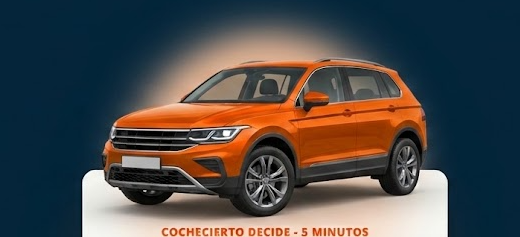
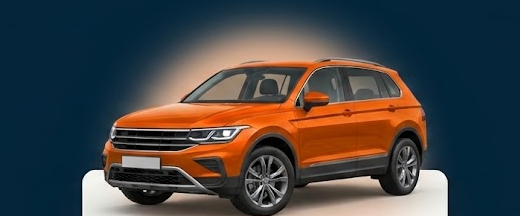
fix(hero): elimina duplicidad de imagenes del coche, recorta limites precisos y sincroniza elemento unico via JS

diff --git a/landing.css b/landing.css
@@ -87,7 +87,7 @@
   display: flex;
   justify-content: center;
   align-items: flex-end;
-  margin-bottom: -22px;
+  margin-bottom: -18px;
   position: relative;
   z-index: 2;
 }
@@ -96,11 +96,11 @@
 @keyframes carBreathing {
   0%, 100% {
     transform: translateY(0) scale(1);
-    filter: drop-shadow(0 10px 20px rgba(0, 0, 0, 0.28));
+    filter: drop-shadow(0 10px 18px rgba(0, 0, 0, 0.25));
   }
   50% {
     transform: translateY(-5px) scale(1.02);
-    filter: drop-shadow(0 16px 28px rgba(252, 76, 2, 0.35)); /* Resplandor cálido al compás */
+    filter: drop-shadow(0 16px 26px rgba(252, 76, 2, 0.32));
   }
 }
 
@@ -119,7 +119,6 @@
   transform: translateY(-7px) scale(1.035);
 }
 
-/* Accesibilidad: desactivar si el usuario prefiere movimiento reducido */
 @media (prefers-reduced-motion: reduce) {
   .hero-car-image, .coche-cabecera {
     animation: none !important;
@@ -133,7 +132,7 @@
   background: #fafbf9;
   color: #072230;
   border-radius: 28px;
-  padding: 36px 26px 24px;
+  padding: 32px 26px 24px;
   width: 100%;
   box-shadow: 0 24px 60px rgba(0, 14, 25, 0.45);
   border: 1px solid rgba(255, 255, 255, 0.1);
@@ -294,34 +293,4 @@ body.theme-light .mini-form, html.theme-light .mini-form {
   }
   .landing-proof { grid-template-columns: 1fr; gap: 20px; }
   .demo-band { flex-direction: column; align-items: flex-start; }
-}
-
-/* Soporte Dinámico para Coche Naranja (Oscuro) vs Coche Corporativo (Claro) */
-.hero-car-dark {
-  display: block;
-}
-
-.hero-car-light {
-  display: none;
-}
-
-body.theme-light .hero-car-dark,
-html.theme-light .hero-car-dark,
-[data-theme="light"] .hero-car-dark {
-  display: none !important;
-}
-
-body.theme-light .hero-car-light,
-html.theme-light .hero-car-light,
-[data-theme="light"] .hero-car-light {
-  display: block !important;
-}
-
-@media (prefers-color-scheme: light) {
-  :root:not([data-theme="dark"]) .hero-car-dark {
-    display: none;
-  }
-  :root:not([data-theme="dark"]) .hero-car-light {
-    display: block;
-  }
 }

diff --git a/mvp-valorador/landing.css b/mvp-valorador/landing.css
@@ -87,7 +87,7 @@
   display: flex;
   justify-content: center;
   align-items: flex-end;
-  margin-bottom: -22px;
+  margin-bottom: -18px;
   position: relative;
   z-index: 2;
 }
@@ -96,11 +96,11 @@
 @keyframes carBreathing {
   0%, 100% {
     transform: translateY(0) scale(1);
-    filter: drop-shadow(0 10px 20px rgba(0, 0, 0, 0.28));
+    filter: drop-shadow(0 10px 18px rgba(0, 0, 0, 0.25));
   }
   50% {
     transform: translateY(-5px) scale(1.02);
-    filter: drop-shadow(0 16px 28px rgba(252, 76, 2, 0.35)); /* Resplandor cálido al compás */
+    filter: drop-shadow(0 16px 26px rgba(252, 76, 2, 0.32));
   }
 }
 
@@ -119,7 +119,6 @@
   transform: translateY(-7px) scale(1.035);
 }
 
-/* Accesibilidad: desactivar si el usuario prefiere movimiento reducido */
 @media (prefers-reduced-motion: reduce) {
   .hero-car-image, .coche-cabecera {
     animation: none !important;
@@ -133,7 +132,7 @@
   background: #fafbf9;
   color: #072230;
   border-radius: 28px;
-  padding: 36px 26px 24px;
+  padding: 32px 26px 24px;
   width: 100%;
   box-shadow: 0 24px 60px rgba(0, 14, 25, 0.45);
   border: 1px solid rgba(255, 255, 255, 0.1);
@@ -294,34 +293,4 @@ body.theme-light .mini-form, html.theme-light .mini-form {
   }
   .landing-proof { grid-template-columns: 1fr; gap: 20px; }
   .demo-band { flex-direction: column; align-items: flex-start; }
-}
-
-/* Soporte Dinámico para Coche Naranja (Oscuro) vs Coche Corporativo (Claro) */
-.hero-car-dark {
-  display: block;
-}
-
-.hero-car-light {
-  display: none;
-}
-
-body.theme-light .hero-car-dark,
-html.theme-light .hero-car-dark,
-[data-theme="light"] .hero-car-dark {
-  display: none !important;
-}
-
-body.theme-light .hero-car-light,
-html.theme-light .hero-car-light,
-[data-theme="light"] .hero-car-light {
-  display: block !important;
-}
-
-@media (prefers-color-scheme: light) {
-  :root:not([data-theme="dark"]) .hero-car-dark {
-    display: none;
-  }
-  :root:not([data-theme="dark"]) .hero-car-light {
-    display: block;
-  }
 }

diff --git a/index.html b/index.html
@@ -59,11 +59,10 @@
       </div>
       <p class="microcopy">Gratis · Sin compromiso · Orientación independiente</p>
     </div>
-            <div class="hero-visual" aria-label="Comienza tu valoración">
+                <div class="hero-visual" aria-label="Comienza tu valoración">
       <div class="hero-card-container">
         <div class="hero-card-header-art">
-          <img src="hero-car-dark.png" alt="CocheCierto Decide - Modo Oscuro" class="hero-car-image hero-car-dark" width="380" height="170">
-          <img src="hero-car-light.png" alt="CocheCierto Decide - Modo Claro" class="hero-car-image hero-car-light" width="380" height="170">
+          <img id="heroCarImg" src="hero-car-dark.png" alt="CocheCierto Decide" class="hero-car-image coche-cabecera" width="380" height="155">
         </div>
         <div class="mini-form" id="miniForm">
           <p class="mini-eyebrow">COCHECIERTO DECIDE - 5 MINUTOS</p>

diff --git a/mvp-valorador/index.html b/mvp-valorador/index.html
@@ -59,11 +59,10 @@
       </div>
       <p class="microcopy">Gratis · Sin compromiso · Orientación independiente</p>
     </div>
-            <div class="hero-visual" aria-label="Comienza tu valoración">
+                <div class="hero-visual" aria-label="Comienza tu valoración">
       <div class="hero-card-container">
         <div class="hero-card-header-art">
-          <img src="hero-car-dark.png" alt="CocheCierto Decide - Modo Oscuro" class="hero-car-image hero-car-dark" width="380" height="170">
-          <img src="hero-car-light.png" alt="CocheCierto Decide - Modo Claro" class="hero-car-image hero-car-light" width="380" height="170">
+          <img id="heroCarImg" src="hero-car-dark.png" alt="CocheCierto Decide" class="hero-car-image coche-cabecera" width="380" height="155">
         </div>
         <div class="mini-form" id="miniForm">
           <p class="mini-eyebrow">COCHECIERTO DECIDE - 5 MINUTOS</p>

diff --git a/mvp-valorador/theme.js b/mvp-valorador/theme.js
@@ -31,7 +31,18 @@
         document.body.setAttribute('data-theme', 'dark');
       }
     }
+    updateCarImage(isLight);
     updateButtons(isLight);
+  }
+
+  function updateCarImage(isLight) {
+    const carImg = document.querySelector('#heroCarImg');
+    if (carImg) {
+      const targetSrc = isLight ? 'hero-car-light.png' : 'hero-car-dark.png';
+      if (!carImg.src.endsWith(targetSrc)) {
+        carImg.src = targetSrc;
+      }
+    }
   }
 
   function updateButtons(isLight) {

diff --git a/theme.js b/theme.js
@@ -31,7 +31,18 @@
         document.body.setAttribute('data-theme', 'dark');
       }
     }
+    updateCarImage(isLight);
     updateButtons(isLight);
+  }
+
+  function updateCarImage(isLight) {
+    const carImg = document.querySelector('#heroCarImg');
+    if (carImg) {
+      const targetSrc = isLight ? 'hero-car-light.png' : 'hero-car-dark.png';
+      if (!carImg.src.endsWith(targetSrc)) {
+        carImg.src = targetSrc;
+      }
+    }
   }
 
   function updateButtons(isLight) {
